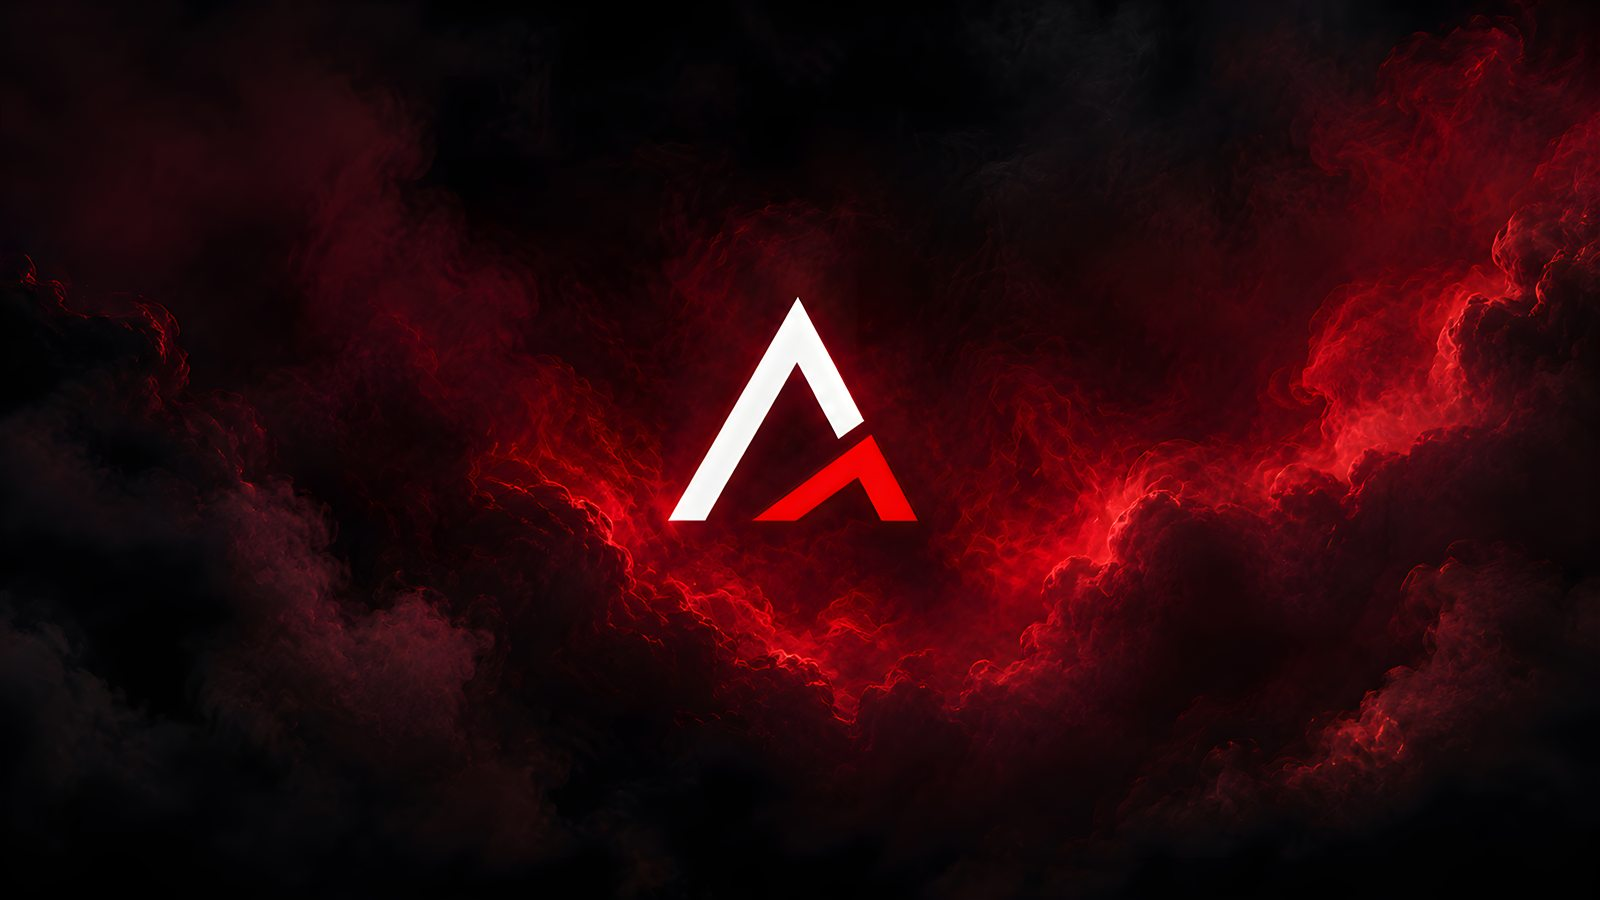
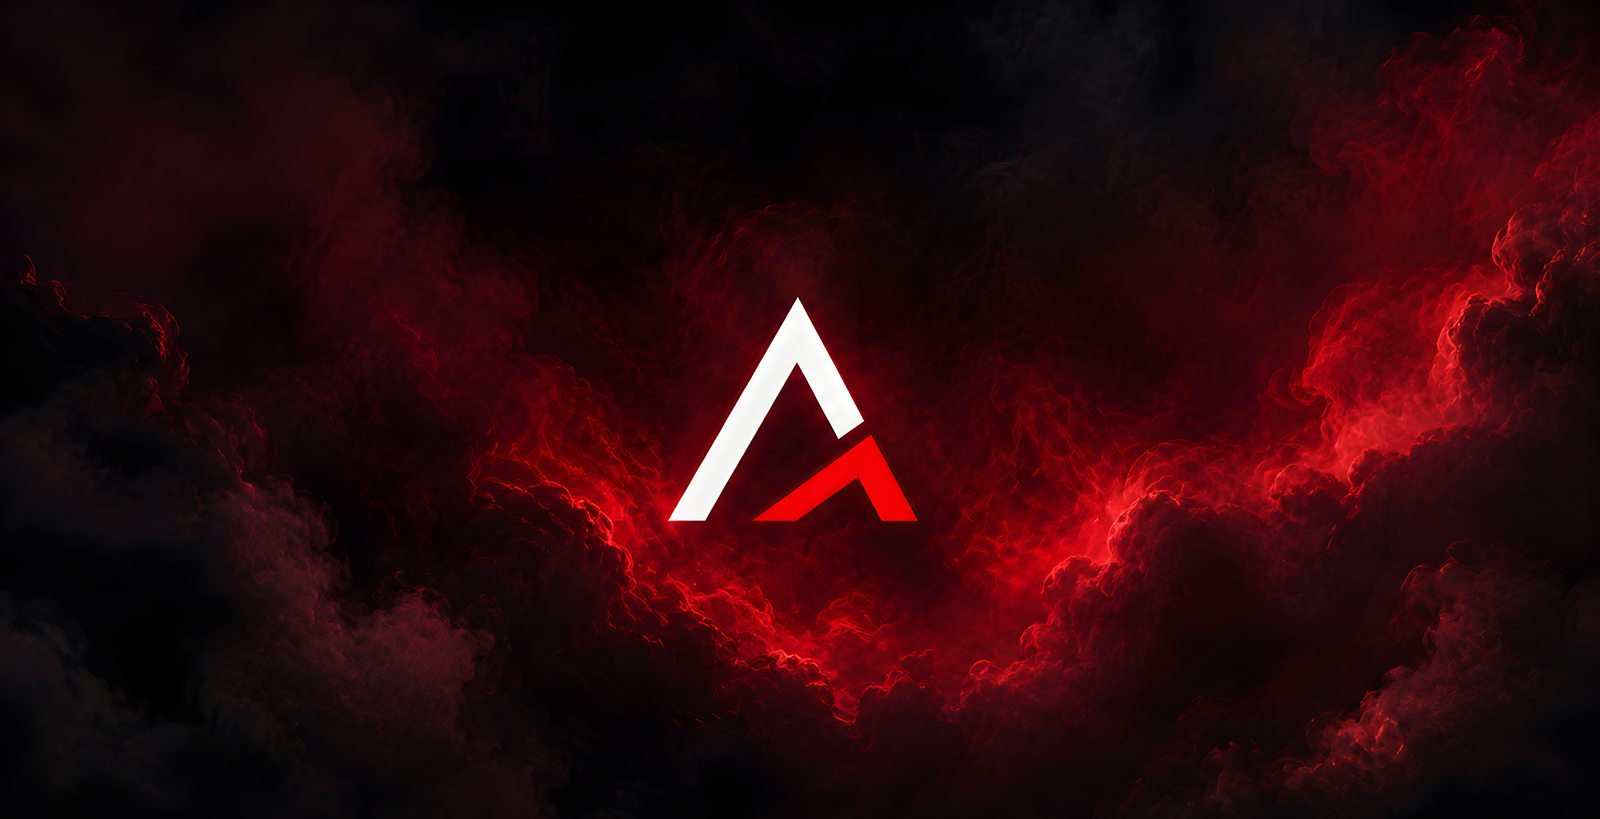
Unify app font to Segoe UI Variable; Home search + wallpaper polish
- App font: pin TextBlock + ContentControlThemeFontFamily to Segoe UI Variable
  Text so raw text no longer falls back to the old Segoe UI. Strip decorative
  Consolas (wordmark, LOG labels, build stamp, section/spec labels, status
  lines, version + CURRENT badge). Keep monospace only for the log console,
  the TechDetail.CodeText style, and registry/technical readouts.
- Home: move global search to the header top-right (matching the hub pages).
- Home: regenerate AkariOS hero wallpaper (bottom-trimmed) so the logo apex is
  no longer clipped.

diff --git a/src/AkariTool.App/Views/HomePage.xaml b/src/AkariTool.App/Views/HomePage.xaml
@@ -28,29 +28,46 @@
             <RowDefinition Height="*" />     <!-- Content -->
         </Grid.RowDefinitions>
 
-        <!-- Header -->
-        <StackPanel Grid.Row="0" Orientation="Horizontal" Spacing="16" Margin="0,24,0,16">
-            <Viewbox Width="52" Height="52" Stretch="Uniform" VerticalAlignment="Center">
-                <TextBlock
-                    Text="&#xE80F;"
-                    FontFamily="Segoe Fluent Icons, Segoe MDL2 Assets"
-                    Foreground="{ThemeResource AccentTextFillColorPrimaryBrush}" />
-            </Viewbox>
-            <StackPanel VerticalAlignment="Center">
-                <TextBlock
-                    Text="{x:Bind ViewModel.Title, Mode=OneWay}"
-                    FontSize="30"
-                    FontWeight="Bold"
-                    Foreground="{ThemeResource TextFillColorPrimaryBrush}"
-                    AutomationProperties.HeadingLevel="Level1" />
-                <TextBlock
-                    Text="{x:Bind ViewModel.Subtitle, Mode=OneWay}"
-                    FontSize="13"
-                    Foreground="{ThemeResource TextFillColorTertiaryBrush}"
-                    Margin="0,2,0,0"
-                    TextWrapping="Wrap" />
+        <!-- Header: icon + title (left), global search (top-right, matching the hub pages) -->
+        <Grid Grid.Row="0" Margin="0,24,0,16">
+            <Grid.ColumnDefinitions>
+                <ColumnDefinition Width="*" />
+                <ColumnDefinition Width="Auto" />
+            </Grid.ColumnDefinitions>
+
+            <StackPanel Grid.Column="0" Orientation="Horizontal" Spacing="16">
+                <Viewbox Width="52" Height="52" Stretch="Uniform" VerticalAlignment="Center">
+                    <TextBlock
+                        Text="&#xE80F;"
+                        FontFamily="Segoe Fluent Icons, Segoe MDL2 Assets"
+                        Foreground="{ThemeResource AccentTextFillColorPrimaryBrush}" />
+                </Viewbox>
+                <StackPanel VerticalAlignment="Center">
+                    <TextBlock
+                        Text="{x:Bind ViewModel.Title, Mode=OneWay}"
+                        FontSize="30"
+                        FontWeight="Bold"
+                        Foreground="{ThemeResource TextFillColorPrimaryBrush}"
+                        AutomationProperties.HeadingLevel="Level1" />
+                    <TextBlock
+                        Text="{x:Bind ViewModel.Subtitle, Mode=OneWay}"
+                        FontSize="13"
+                        Foreground="{ThemeResource TextFillColorTertiaryBrush}"
+                        Margin="0,2,0,0"
+                        TextWrapping="Wrap" />
+                </StackPanel>
             </StackPanel>
-        </StackPanel>
+
+            <AutoSuggestBox
+                x:Name="SearchBox"
+                Grid.Column="1"
+                Width="240"
+                VerticalAlignment="Bottom"
+                PlaceholderText="Search all tweaks…"
+                QueryIcon="Find"
+                TextChanged="SearchBox_TextChanged"
+                AutomationProperties.Name="Search all tweaks" />
+        </Grid>
 
         <!-- Content panel -->
         <Border Grid.Row="1"
@@ -136,21 +153,21 @@
                                     </Grid.ColumnDefinitions>
 
                                     <StackPanel Grid.Column="0">
-                                        <TextBlock Text="PROCESSOR" FontFamily="Consolas" FontSize="10"
+                                        <TextBlock Text="PROCESSOR" FontSize="10"
                                                    FontWeight="Medium" Foreground="{ThemeResource TextFillColorTertiaryBrush}" />
                                         <TextBlock Text="{x:Bind ViewModel.Cpu, Mode=OneWay}" FontSize="13"
                                                    Foreground="{ThemeResource TextFillColorPrimaryBrush}"
                                                    TextWrapping="Wrap" Margin="0,3,0,0" />
                                     </StackPanel>
                                     <StackPanel Grid.Column="1">
-                                        <TextBlock Text="GRAPHICS" FontFamily="Consolas" FontSize="10"
+                                        <TextBlock Text="GRAPHICS" FontSize="10"
                                                    FontWeight="Medium" Foreground="{ThemeResource TextFillColorTertiaryBrush}" />
                                         <TextBlock Text="{x:Bind ViewModel.Gpu, Mode=OneWay}" FontSize="13"
                                                    Foreground="{ThemeResource TextFillColorPrimaryBrush}"
                                                    TextWrapping="Wrap" Margin="0,3,0,0" />
                                     </StackPanel>
                                     <StackPanel Grid.Column="2">
-                                        <TextBlock Text="MEMORY" FontFamily="Consolas" FontSize="10"
+                                        <TextBlock Text="MEMORY" FontSize="10"
                                                    FontWeight="Medium" Foreground="{ThemeResource TextFillColorTertiaryBrush}" />
                                         <TextBlock Text="{x:Bind ViewModel.Memory, Mode=OneWay}" FontSize="13"
                                                    Foreground="{ThemeResource TextFillColorPrimaryBrush}"
@@ -295,18 +312,8 @@
                         </StackPanel>
                     </StackPanel>
 
-                    <!-- Global search across every tab (SettingBackupService.Search) -->
-                    <AutoSuggestBox
-                        x:Name="SearchBox"
-                        PlaceholderText="Search all tweaks across every tab…"
-                        QueryIcon="Find"
-                        FontSize="14"
-                        Height="44"
-                        Margin="0,0,0,16"
-                        TextChanged="SearchBox_TextChanged"
-                        AutomationProperties.Name="Search all tweaks" />
-
-                    <!-- Search results (code-filled; shown while searching) -->
+                    <!-- Search box lives in the header (top-right); results render here while searching.
+                         Search results (code-filled; shown while searching) -->
                     <Border
                         x:Name="ResultsCard"
                         Background="{ThemeResource CardBackgroundFillColorDefaultBrush}"

diff --git a/src/AkariTool.App/MainWindow.xaml b/src/AkariTool.App/MainWindow.xaml
@@ -60,7 +60,6 @@
                     Margin="0,0,10,0"
                     Fill="{ThemeResource AccentFillColorDefaultBrush}" />
                 <TextBlock
-                    FontFamily="Consolas"
                     FontSize="10.5"
                     FontWeight="Bold"
                     VerticalAlignment="Center">
@@ -195,7 +194,6 @@
                             <TextBlock
                                 Grid.Column="0"
                                 Text="LOG"
-                                FontFamily="Consolas"
                                 FontSize="10"
                                 Foreground="{ThemeResource TextFillColorTertiaryBrush}"
                                 VerticalAlignment="Center" />
@@ -302,7 +300,6 @@
                                 Foreground="{ThemeResource TextFillColorSecondaryBrush}" />
                             <TextBlock
                                 Text="LOG"
-                                FontFamily="Consolas"
                                 FontSize="10"
                                 Foreground="{ThemeResource TextFillColorSecondaryBrush}"
                                 VerticalAlignment="Center" />
@@ -311,7 +308,6 @@
                     <TextBlock
                         x:Name="BuildStamp"
                         VerticalAlignment="Center"
-                        FontFamily="Consolas"
                         FontSize="10.5"
                         Foreground="{ThemeResource TextFillColorTertiaryBrush}" />
                 </StackPanel>

diff --git a/src/AkariTool.App/Views/SettingsPage.xaml b/src/AkariTool.App/Views/SettingsPage.xaml
@@ -187,7 +187,7 @@
                                             <TextBlock
                                                 Grid.Column="0"
                                                 Text="{x:Bind Version}"
-                                                FontFamily="Consolas" FontSize="13" FontWeight="SemiBold"
+                                                FontSize="13" FontWeight="SemiBold"
                                                 VerticalAlignment="Top"
                                                 Foreground="{ThemeResource AccentTextFillColorPrimaryBrush}" />
                                             <StackPanel Grid.Column="1" Spacing="4">
@@ -199,7 +199,7 @@
                                                     Background="{ThemeResource SystemFillColorSuccessBackgroundBrush}"
                                                     BorderBrush="{ThemeResource SystemFillColorSuccessBrush}"
                                                     BorderThickness="1">
-                                                    <TextBlock Text="CURRENT" FontFamily="Consolas" FontSize="9"
+                                                    <TextBlock Text="CURRENT" FontSize="9"
                                                                Foreground="{ThemeResource SystemFillColorSuccessBrush}" />
                                                 </Border>
                                                 <ItemsControl

diff --git a/src/AkariTool.App/App.xaml b/src/AkariTool.App/App.xaml
@@ -104,6 +104,20 @@
                 <ResourceDictionary Source="ms-appx:///Views/Templates/TweakTemplates.xaml" />
                 <ResourceDictionary Source="ms-appx:///Views/Templates/SoftwareViewTemplates.xaml" />
             </ResourceDictionary.MergedDictionaries>
+
+            <!--
+              SINGLE APP FONT — Segoe UI Variable (the modern Windows 11 font).
+              Raw <TextBlock>s default to the old "Segoe UI"; controls use
+              ContentControlThemeFontFamily. Pinning both to Segoe UI Variable Text makes
+              the whole app one font. Monospace (Consolas) is intentionally retained only
+              for code/registry/log readouts, which set FontFamily locally and so win over
+              the implicit style below.
+            -->
+            <FontFamily x:Key="AppFontFamily">Segoe UI Variable Text, Segoe UI</FontFamily>
+            <FontFamily x:Key="ContentControlThemeFontFamily">Segoe UI Variable Text, Segoe UI</FontFamily>
+            <Style TargetType="TextBlock">
+                <Setter Property="FontFamily" Value="{StaticResource AppFontFamily}" />
+            </Style>
         </ResourceDictionary>
     </Application.Resources>
 </Application>

diff --git a/src/AkariTool.App/Views/BackupPage.xaml b/src/AkariTool.App/Views/BackupPage.xaml
@@ -65,7 +65,6 @@
                         Foreground="{x:Bind ViewModel.ExportStatusBrush, Mode=OneWay}"
                         Visibility="{x:Bind ViewModel.ExportStatusVisible, Mode=OneWay, Converter={StaticResource BoolToVis}}"
                         FontSize="12"
-                        FontFamily="Consolas"
                         TextWrapping="Wrap"
                         Margin="0,10,0,0" />
                 </StackPanel>
@@ -110,7 +109,6 @@
                         Foreground="{x:Bind ViewModel.ImportStatusBrush, Mode=OneWay}"
                         Visibility="{x:Bind ViewModel.ImportStatusVisible, Mode=OneWay, Converter={StaticResource BoolToVis}}"
                         FontSize="12"
-                        FontFamily="Consolas"
                         TextWrapping="Wrap"
                         Margin="0,10,0,0" />
                 </StackPanel>

diff --git a/src/AkariTool.App/Views/VerifyPage.xaml b/src/AkariTool.App/Views/VerifyPage.xaml
@@ -110,7 +110,6 @@
                     <TextBlock
                         Text="{x:Bind ViewModel.StatusText, Mode=OneWay}"
                         FontSize="12"
-                        FontFamily="Consolas"
                         Foreground="{ThemeResource TextFillColorSecondaryBrush}"
                         TextWrapping="Wrap"
                         Margin="0,0,0,12" />

diff --git a/src/AkariTool.App/Views/DebloatPage.xaml b/src/AkariTool.App/Views/DebloatPage.xaml
@@ -67,7 +67,6 @@
             <StackPanel>
                 <TextBlock
                     Text="{x:Bind Header}"
-                    FontFamily="Consolas"
                     FontSize="10.5"
                     FontWeight="Medium"
                     Foreground="{ThemeResource TextFillColorTertiaryBrush}"

diff --git a/src/AkariTool.App/Views/HomePage.xaml.cs b/src/AkariTool.App/Views/HomePage.xaml.cs
@@ -95,7 +95,6 @@ public sealed partial class HomePage : Page
         CardsPanel.Children.Add(new TextBlock
         {
             Text = label,
-            FontFamily = new FontFamily("Consolas"),
             FontSize = 10,
             FontWeight = FontWeights.Medium,
             Foreground = Res("TextFillColorTertiaryBrush"),
@@ -263,7 +262,6 @@ public sealed partial class HomePage : Page
             ResultsPanel.Children.Add(new TextBlock
             {
                 Text = group.Key.ToUpperInvariant(),
-                FontFamily = new FontFamily("Consolas"),
                 FontSize = 11.5,
                 FontWeight = FontWeights.Medium,
                 Foreground = Res("TextFillColorTertiaryBrush"),
